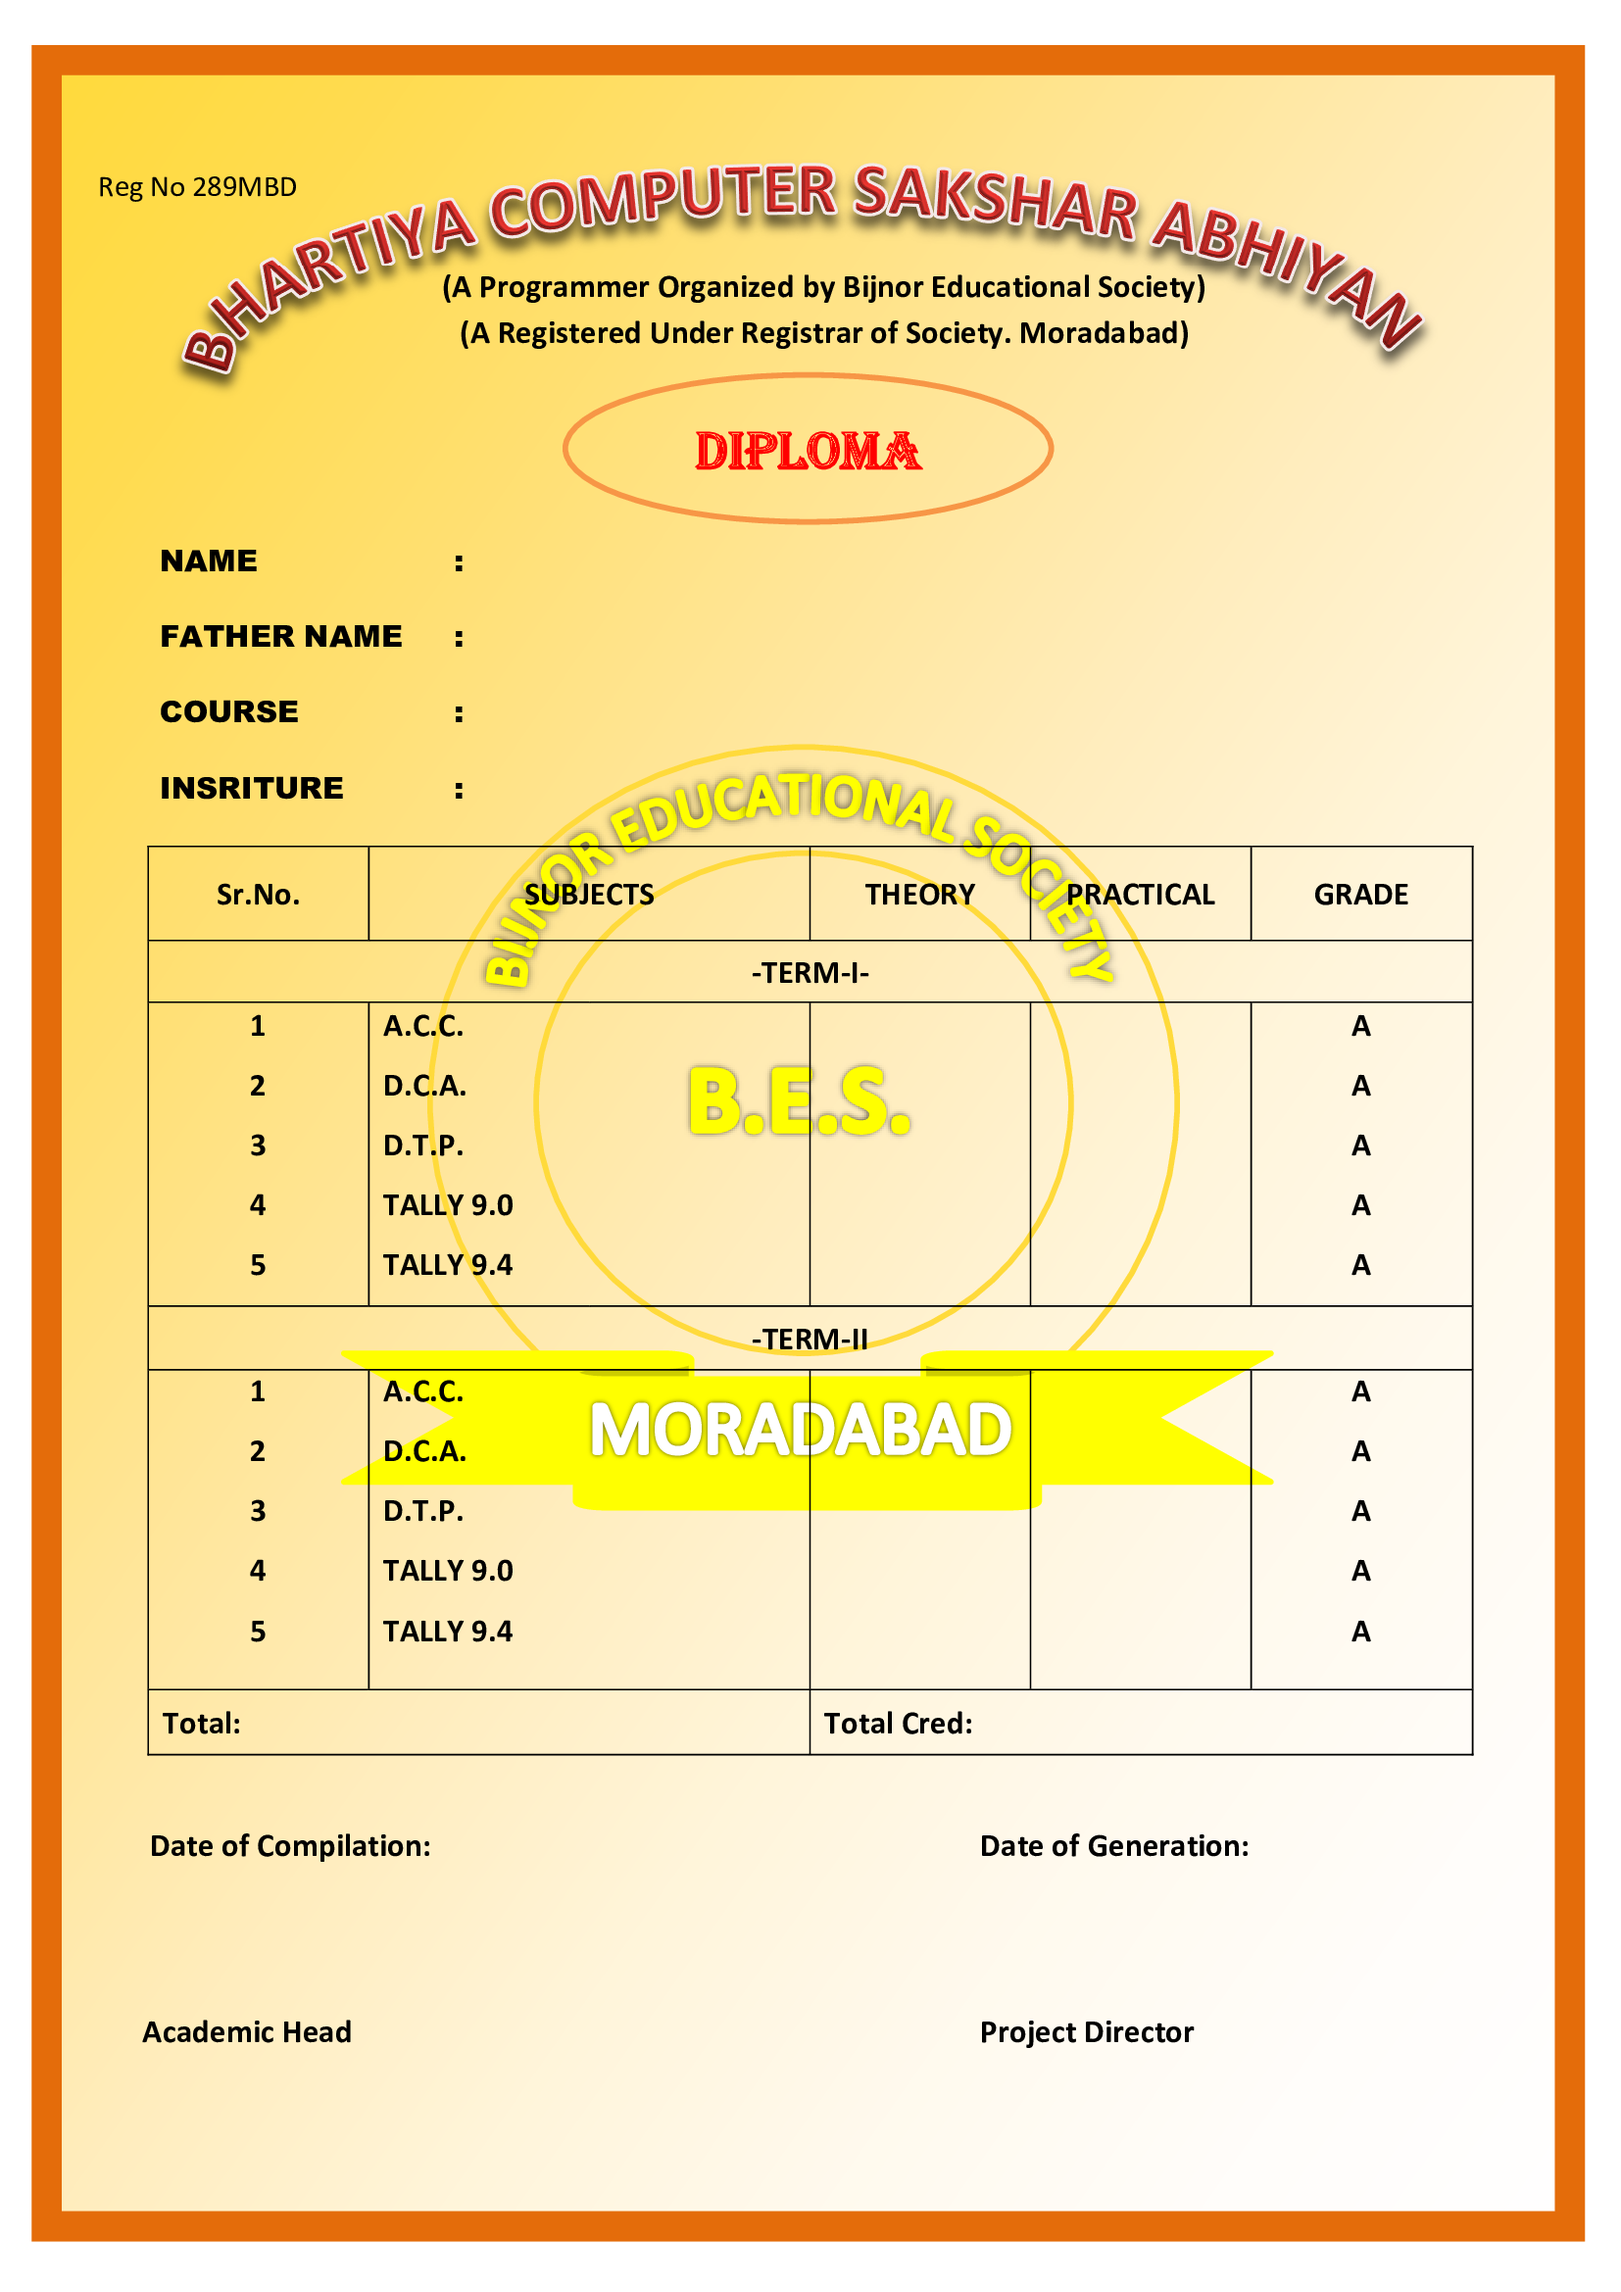
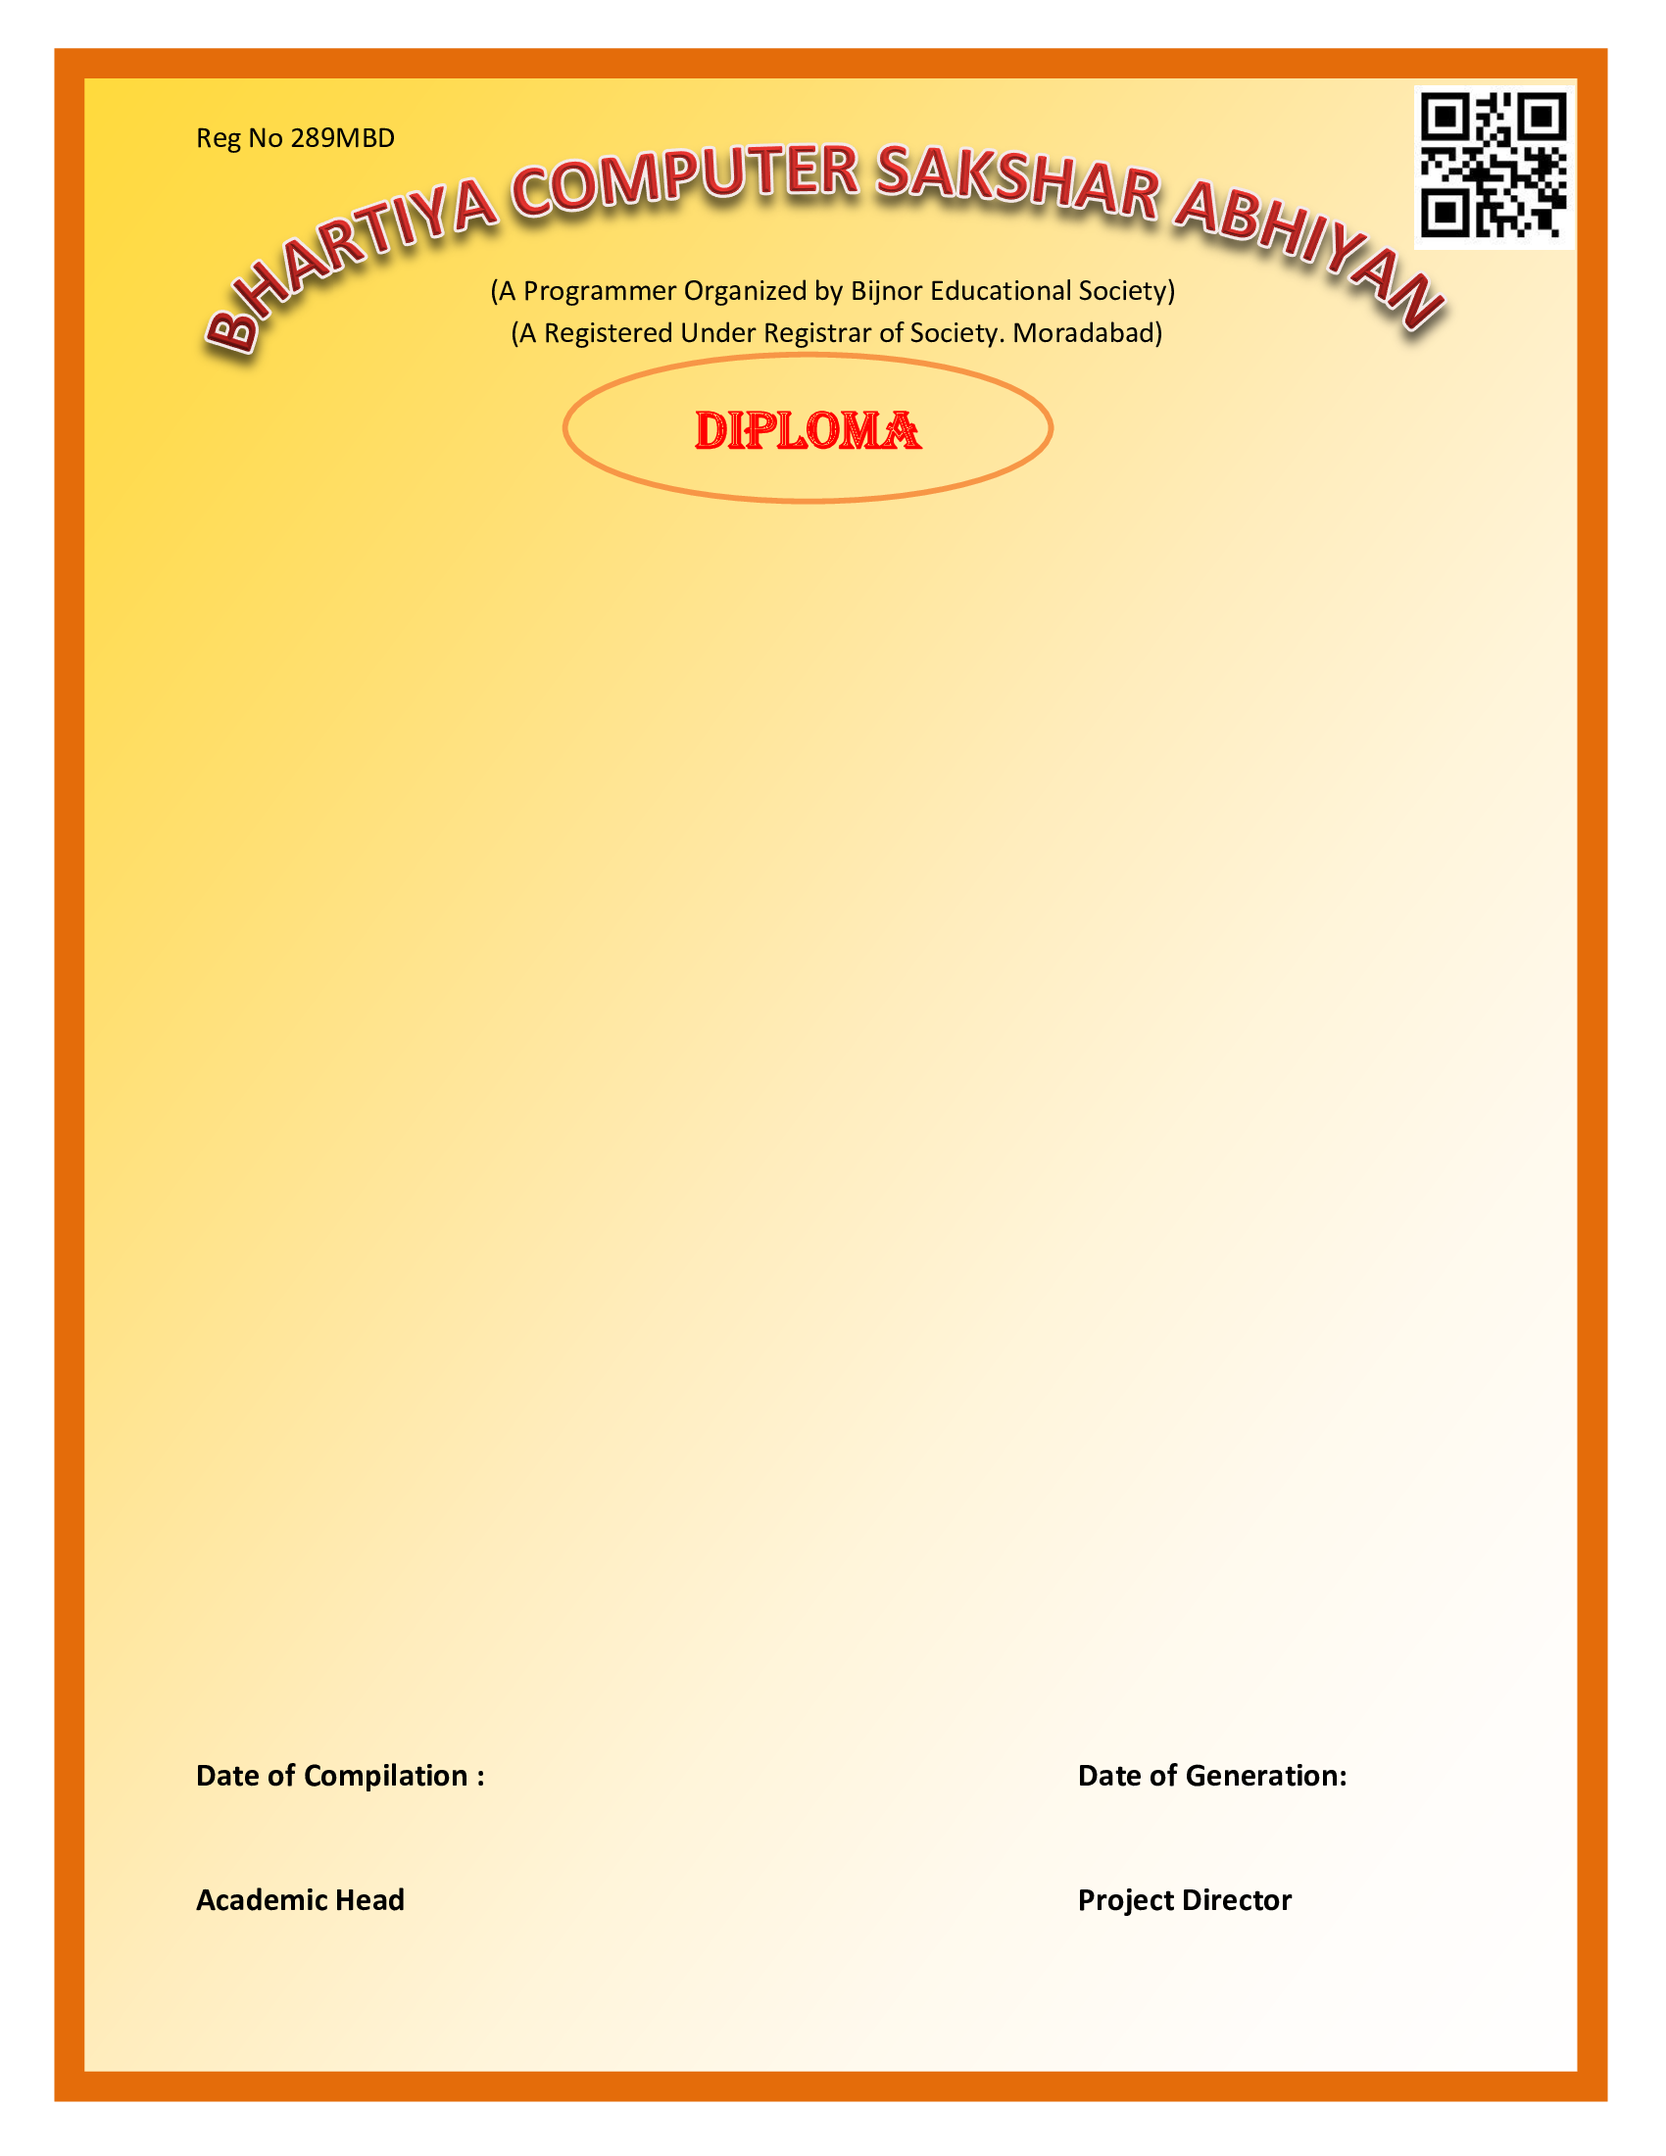
diploma page fixed pagal

diff --git a/src/admin/DiplomaPage.jsx b/src/admin/DiplomaPage.jsx
@@ -54,8 +54,8 @@ export default function DiplomaPage() {
                     <div
                         id="print-area"
                         style={{
-                            width: "00%",
-                            maxWidth: "840px",
+                            width: "100%",
+                            maxWidth: "885px",
                             margin: "0 auto",
                             backgroundImage: `url('${diplomaImg}')`,
                             backgroundSize: "cover",
@@ -64,6 +64,7 @@ export default function DiplomaPage() {
                             position: "relative",
                             height: "1175px",
                             boxShadow: "0 0 10px rgba(0,0,0,0.2)",
+                            padding: "60px",
                         }}
                     >
                         <div className="flex justify-between mb-6 absolute">
@@ -75,7 +76,7 @@ export default function DiplomaPage() {
                             </button>
                         </div>
 
-                        <div className="grid grid-cols-2 gap-4">
+                        <div className="grid grid-cols-2 gap-4 pt-55">
                             <div>
                                 <div> {diploma.name}</div>
                                 <div>{diploma.father_name}</div>
@@ -93,31 +94,32 @@ export default function DiplomaPage() {
                                         className="w-40 h-40 object-cover border"
                                     />
                                 )}
-                                <p><strong>Total:</strong> {diploma.total}</p>
+                                {/* <p><strong>Total:</strong> {diploma.total}</p>
                                 <p><strong>Percentage:</strong> {diploma.percentage}%</p>
-                                <p><strong>Grade:</strong> {diploma.grade}</p>
+                                <p><strong>Grade:</strong> {diploma.grade}</p> */}
                             </div>
                         </div>
 
                         <div className="mt-8">
                             <table className="w-full border text-center">
                                 <thead>
-                                    <tr>
-                                        <th colSpan={4} className="border px-2">Term I</th>
+                                    <tr className="px-10">
+                                        <th className="border py-3">Sr. No.</th>
+                                        <th className="border py-3">SUBJECT</th>
+                                        <th className="border py-3">THEORY</th>
+                                        <th className="border py-3">PRACTICAL</th>
+                                        <th className="border py-3">GRADE</th>
                                     </tr>
                                     <tr>
-                                        <th className="border px-2">Sr. No.</th>
-                                        <th className="border px-2">Subject</th>
-                                        <th className="border px-2">Theory</th>
-                                        <th className="border px-2">Practical</th>
-                                        <th className="border px-2">Grade</th>
+                                        <th colSpan={5} className="border py-3">-TERM-I-</th>
                                     </tr>
                                 </thead>
                                 <tbody>
                                     {Object.entries(groupedMarks).map(([subject, terms]) => (
                                         <>
                                             <tr key={`${subject}-1`}>
-                                                <td className="border font-semibold">{subject}</td>
+                                                <td className="border">1</td>
+                                                <td className="border font-semibold text-left pl-3">{subject}</td>
                                                 <td className="border">{terms.I?.theory}</td>
                                                 <td className="border">{terms.I?.practical}</td>
                                                 <td className="border">A</td>
@@ -125,18 +127,24 @@ export default function DiplomaPage() {
                                         </>
                                     ))}
                                     <tr>
-                                        <th colSpan={4} className="border px-2">Term II</th>
+                                        <th colSpan={5} className="border py-3">-TERM-II-</th>
                                     </tr>
                                     {Object.entries(groupedMarks).map(([subject, terms]) => (
                                         <>
                                             <tr key={`${subject}-2`}>
-                                                <td className="border font-semibold">{subject}</td>
+                                                <td className="border">1</td>
+                                                <td className="border font-semibold text-left pl-3">{subject}</td>
                                                 <td className="border">{terms.II?.theory}</td>
                                                 <td className="border">{terms.II?.practical}</td>
                                                 <td className="border">A</td>
                                             </tr>
                                         </>
                                     ))}
+                                    <tr className="font-semibold">
+                                        <td className="py-3 ">Total:   {diploma.total}</td>
+                                        <td>{diploma.percentage}%</td>
+                                        <td colSpan={3} className="border">Total Cred:   {diploma.grade}</td>
+                                    </tr>
                                 </tbody>
                             </table>
                         </div>

diff --git a/src/admin/EditDiploma.jsx b/src/admin/EditDiploma.jsx
@@ -10,11 +10,11 @@ export default function EditDiploma() {
     name: "",
     father_name: "",
     course: "",
-    duration: "",
     phone: "",
     aadhar: "",
-    issue_date: "",
-    certificate_number: ""
+    dateOfGeneration: "",
+    dateOfCompilation: "",
+
   });
 
   useEffect(() => {
@@ -84,14 +84,7 @@ export default function EditDiploma() {
           className="w-full border p-2 rounded"
           required
         />
-        <input
-          type="text"
-          name="duration"
-          value={formData.duration}
-          onChange={handleChange}
-          placeholder="Duration"
-          className="w-full border p-2 rounded"
-        />
+
         <input
           type="text"
           name="phone"
@@ -108,19 +101,24 @@ export default function EditDiploma() {
           placeholder="Aadhar Number"
           className="w-full border p-2 rounded"
         />
-        <input
-          type="text"
-          name="certificate_number"
-          value={formData.certificate_number}
-          onChange={handleChange}
-          placeholder="Certificate Number"
-          className="w-full border p-2 rounded"
-        />
+
         <input
           type="date"
-          name="issue_date"
-          value={formData.issue_date?.split("T")[0] || ""}
+          name="dateOfCompilation"
+          value={formData.compilation_date?.split("T")[0] || ""}
           onChange={handleChange}
+          placeholder="Date of Compilation"
+          required
+          className="w-full border p-2 rounded"
+        />
+
+        <input
+          type="date"
+          name="dateOfGeneration"
+          value={formData.generation_date?.split("T")[0] || ""}
+          onChange={handleChange}
+          placeholder="Date of Generation"
+          required
           className="w-full border p-2 rounded"
         />
 

diff --git a/src/admin/DiplomaList.jsx b/src/admin/DiplomaList.jsx
@@ -90,7 +90,7 @@ export default function DiplomaList() {
                                 <th className="border p-1">Course</th>
                                 <th className="border p-1">Phone</th>
                                 <th className="border p-1">Aadhar</th>
-                                <th className="border p-1">Certificate No</th>
+                                <th className="border p-1">Diploma No</th>
                                 <th className="border p-1">Actions</th>
                             </tr>
                         </thead>
@@ -103,7 +103,7 @@ export default function DiplomaList() {
                                     <td className="border p-1">{d.course}</td>
                                     <td className="border p-1">{d.phone}</td>
                                     <td className="border p-1">{d.aadhar}</td>
-                                    <td className="border p-1">{d.certificate_number}</td>
+                                    <td className="border p-1">{d.diploma_number}</td>
                                     <td className="border p-1 space-x-2">
                                         <Link
                                             to={`/admin/diploma/${d.id}`}

diff --git a/src/App.jsx b/src/App.jsx
@@ -26,7 +26,7 @@ import StudentCertificateSearch from "./pages/StudentCertificateSearch";
 
 function AppContent() {
   const location = useLocation();
-  const isAdminRoute = location.pathname.startsWith("/admin");
+  const isAdminRoute = location.pathname.startsWith("/admin/");
   const isSearchPage = location.pathname === "/search-certificate";
 
   return (

diff --git a/src/admin/DiplomaForm.jsx b/src/admin/DiplomaForm.jsx
@@ -176,8 +176,7 @@ export default function DiplomaForm() {
               className="w-full border p-2 rounded"
             />
             {errors.aadhar && <p className="text-red-500 text-sm">{errors.aadhar}</p>}
-
-
+            
             <input
               type="date"
               name="dateOfCompilation"
